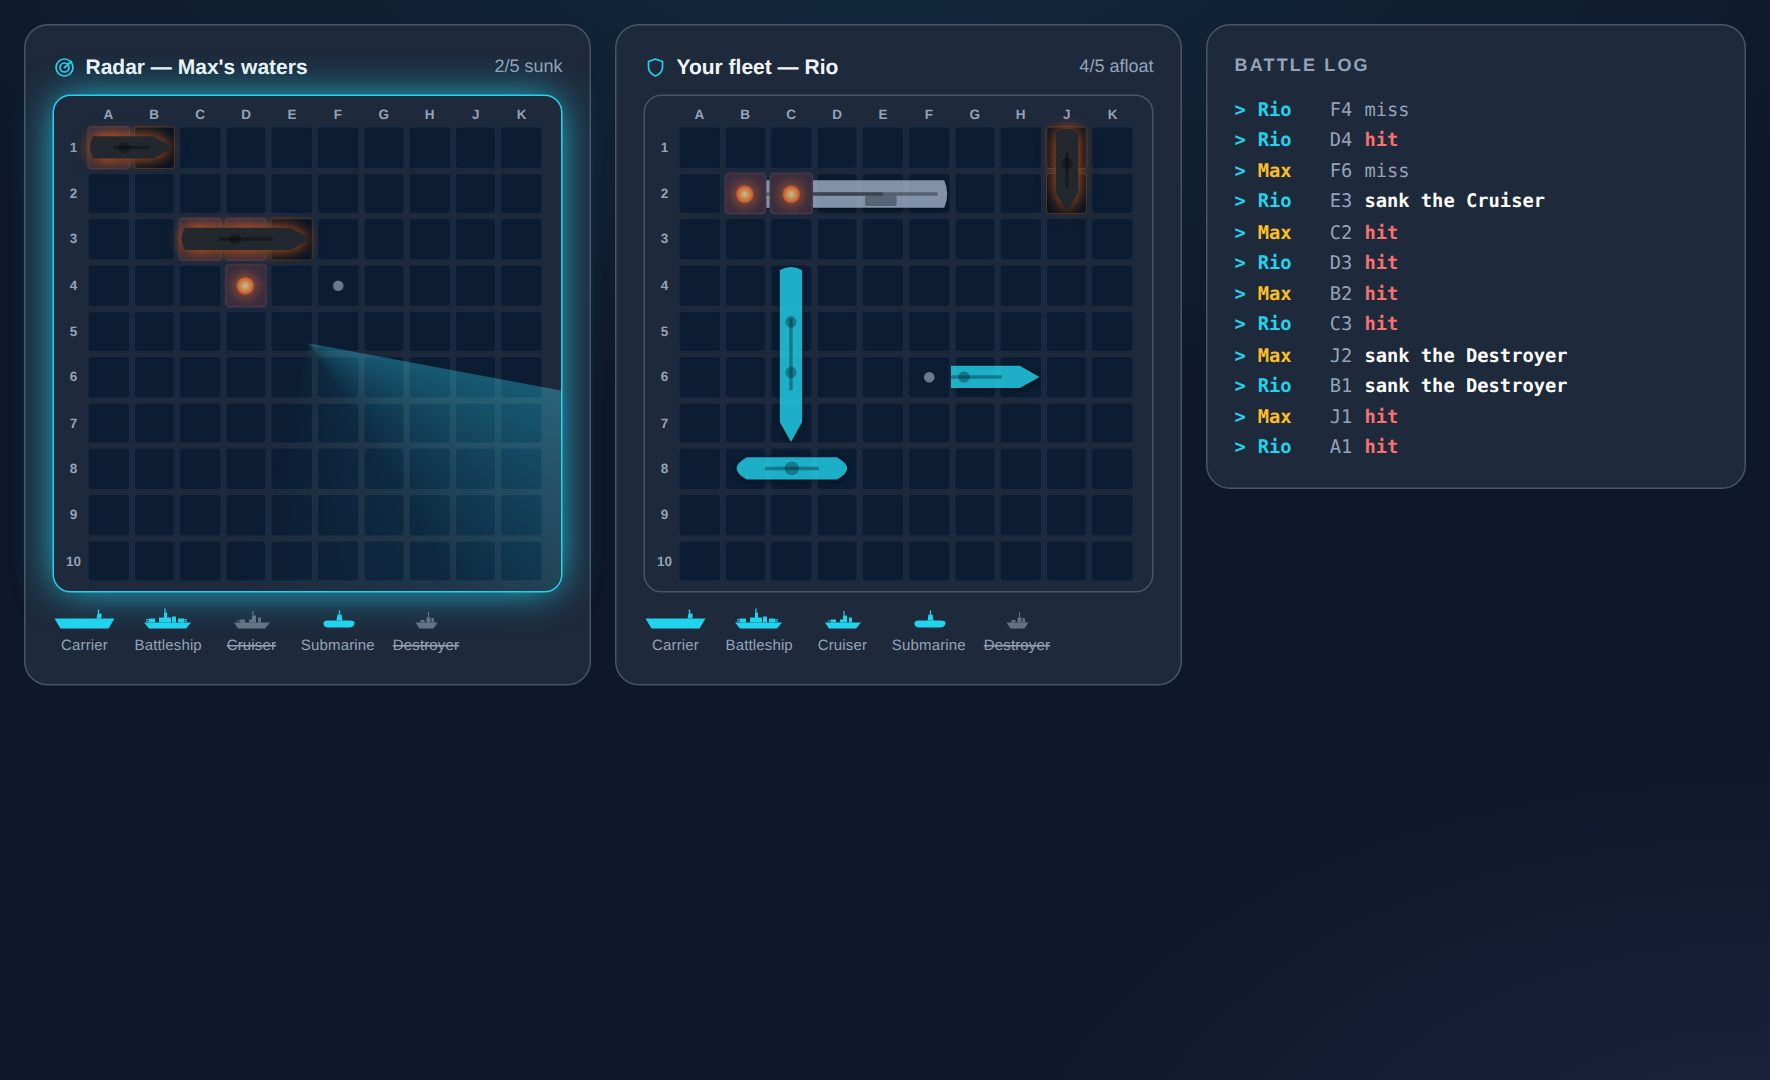
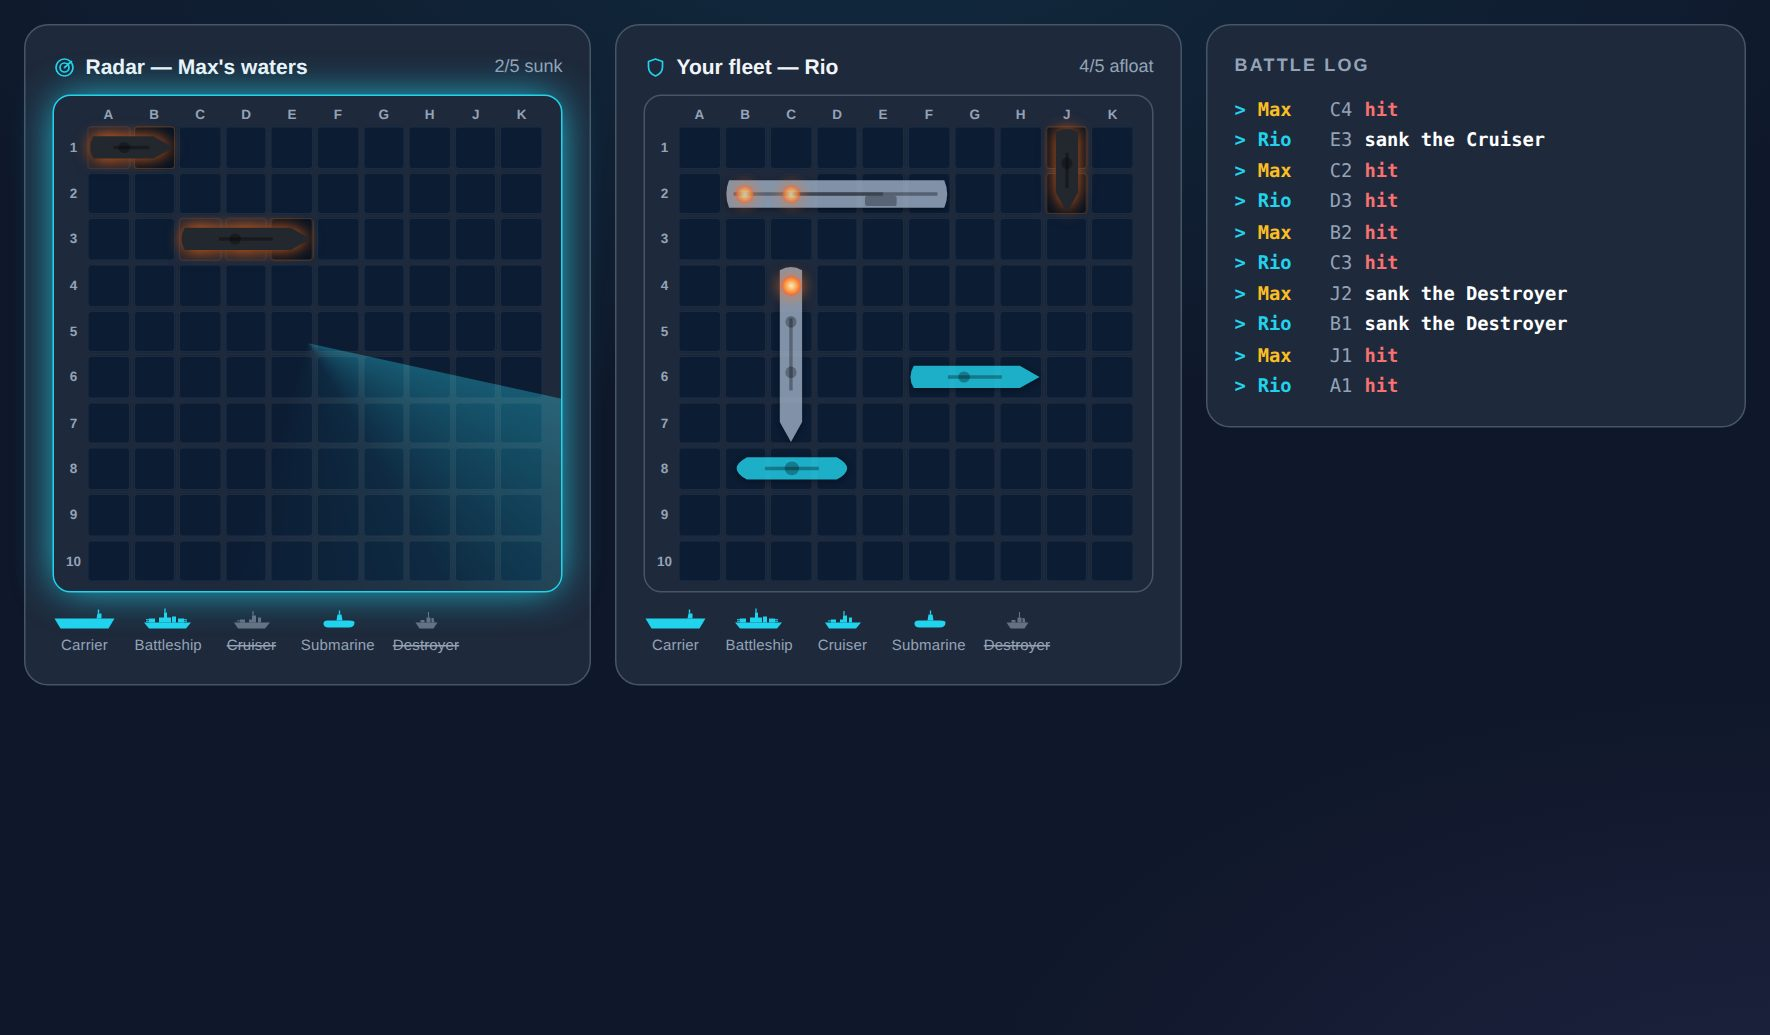
Fix: hit cells no longer show a square through the hull on my fleet
On the own board a hit always sits over a ship hull, so the hit cell now
goes transparent (no fill, no grid border) — the grey damaged hull shows
through cleanly with just the fire ember on top. The radar keeps its
water-tinted hit cells. Also refreshes the battle-view screenshot.

Claude-Session: https://claude.ai/code/session_01Pet5917XAbMAsbQM47tWg6

diff --git a/src/preview-b.tsx b/src/preview-b.tsx
@@ -1,0 +1,25 @@
+import { createRoot } from 'react-dom/client';
+import { Battle } from './components/Battle';
+import type { Fleet, GameLog, ShipId } from './game/types';
+import './styles/global.css';
+const myFleet: Fleet = [
+  { shipId: 'carrier', row: 1, col: 1, orientation: 'H' },
+  { shipId: 'battleship', row: 3, col: 2, orientation: 'V' },
+  { shipId: 'cruiser', row: 5, col: 5, orientation: 'H' },
+  { shipId: 'submarine', row: 7, col: 1, orientation: 'H' },
+  { shipId: 'destroyer', row: 0, col: 8, orientation: 'V' },
+];
+const S = (by: 'host'|'guest', row: number, col: number, hit: boolean, sunk: ShipId|null = null) =>
+  ({ type: 'shot' as const, by, row, col, hit, sunk, allSunk: false });
+const log: GameLog = [
+  { type: 'start', first: 'host' },
+  S('host', 0, 0, true), S('guest', 0, 8, true),
+  S('host', 0, 1, true, 'destroyer'), S('guest', 1, 8, true, 'destroyer'),
+  S('host', 2, 2, true), S('guest', 1, 1, true),
+  S('host', 2, 3, true), S('guest', 1, 2, true),
+  S('host', 2, 4, true, 'cruiser'), S('guest', 3, 2, true),
+];
+function App() {
+  return (<div style={{ padding: 16, maxWidth: 1180, margin: '0 auto' }}><Battle log={log} side="host" myName="Rio" oppName="Max" skinId="aqua" oppSkinId="coral" myFleet={myFleet} myTurn pendingFire={null} onFire={() => {}} /></div>);
+}
+createRoot(document.getElementById('root')!).render(<App />);

diff --git a/src/styles/global.css b/src/styles/global.css
@@ -291,7 +291,10 @@ body {
 }
 /* Shot markers sit above the ship overlay (z 5) so hits punch through a hull. */
 .cell.hit, .cell.miss, .cell.sunk { z-index: 6; }
-.cell.hit { background: color-mix(in srgb, var(--bad) 20%, var(--sea)); }
+.cell.hit { background: color-mix(in srgb, #ff7a2e 12%, var(--sea)); }
+/* On my own fleet the hit sits over a ship hull, so let the grey hull show
+   through cleanly with just the ember — no cell square shining through. */
+.board.own .cell.hit { background: transparent; box-shadow: none; }
 /* Hit: a glowing fire ember at the wound. */
 .cell.hit::after {
   content: ''; width: 46%; height: 46%; border-radius: 50%;

diff --git a/preview-b.html b/preview-b.html
@@ -1,0 +1,1 @@
+<!doctype html><html lang="en"><head><meta charset="UTF-8"/><title>B</title></head><body><div id="root"></div><script type="module" src="/src/preview-b.tsx"></script></body></html>
